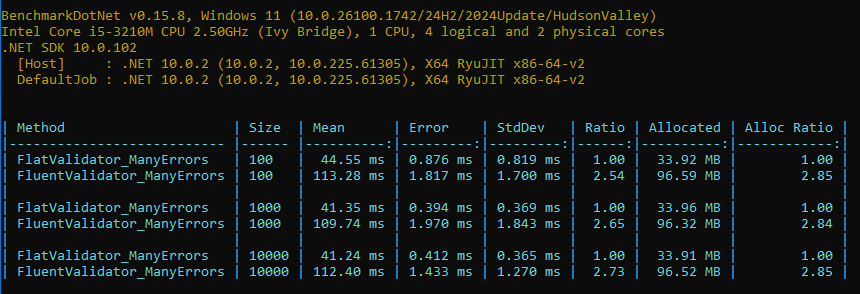
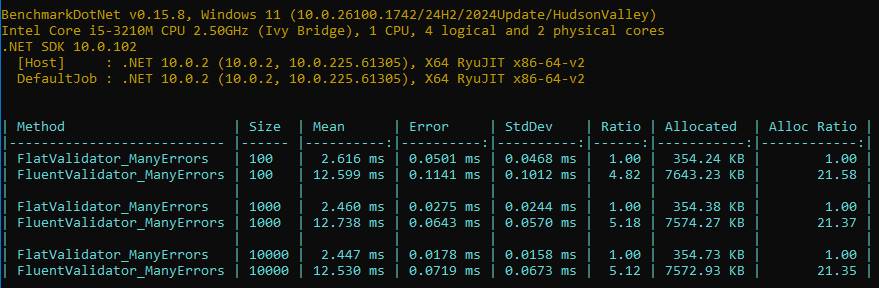
Merge pull request #104 from belset/dev
Spec updated

Pull request: Spec updated

Changed region(s): [[0.0, 0.4062, 0.9977, 0.9688], [0.0, 0.0312, 0.786, 0.3125]]

diff --git a/samples/NativeAOT+Validation/Program.cs b/samples/NativeAOT+Validation/Program.cs
@@ -23,6 +23,10 @@ builder.Services.AddScoped<IFlatValidator<Todo>, TodoValidator>();
 
 var app = builder.Build();
 
+app.MapGet("/", () => {
+    return TypedResults.Content("http://localhost:5400/demo or http://localhost:5400/todos (GET/POST)");
+});
+
 app.MapGet("/demo", () =>
 {
     var ret = sampleTodos.Select(m => FlatValidator.Validate(m, v => // inline validation